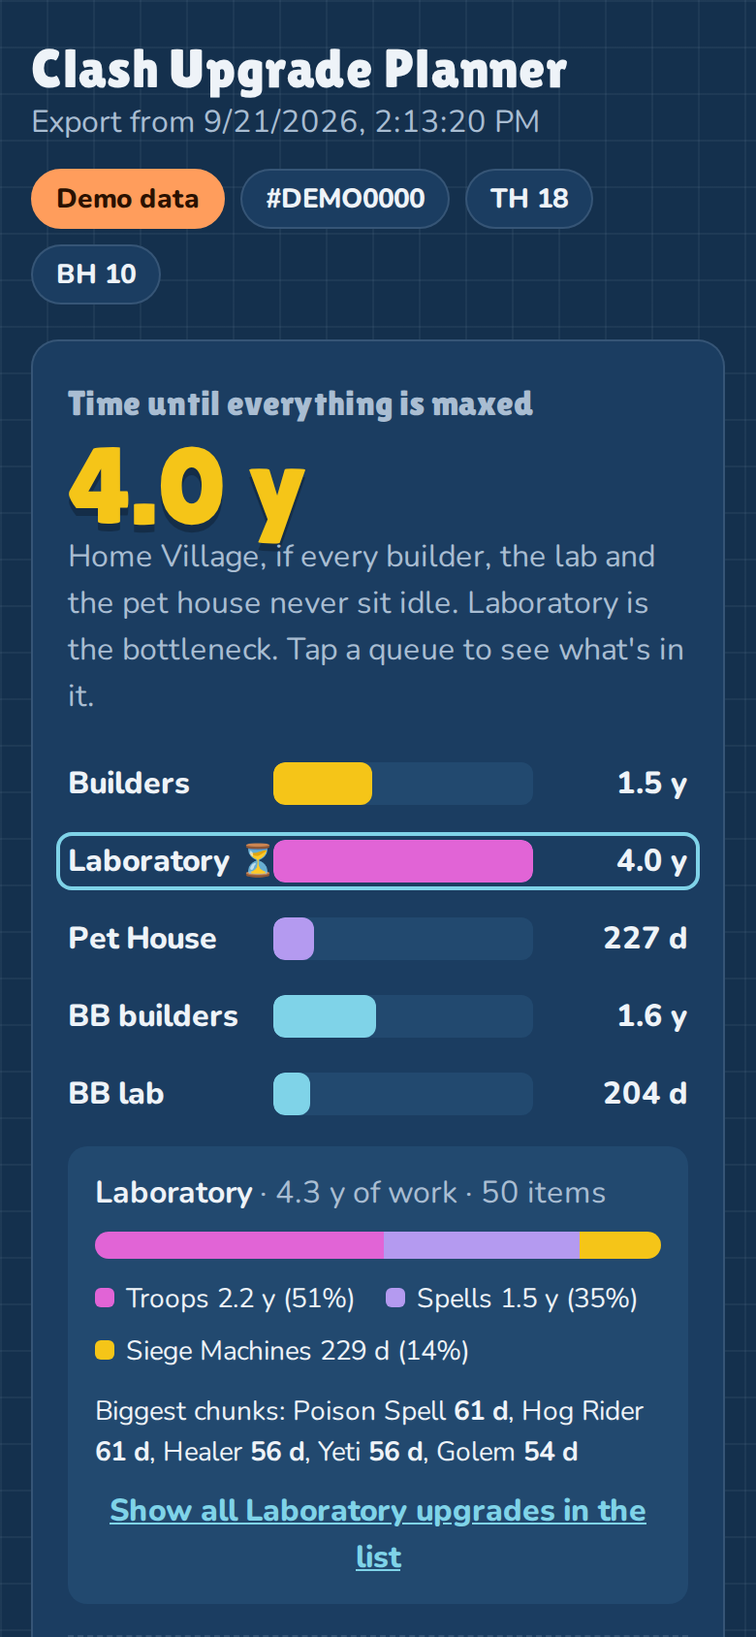
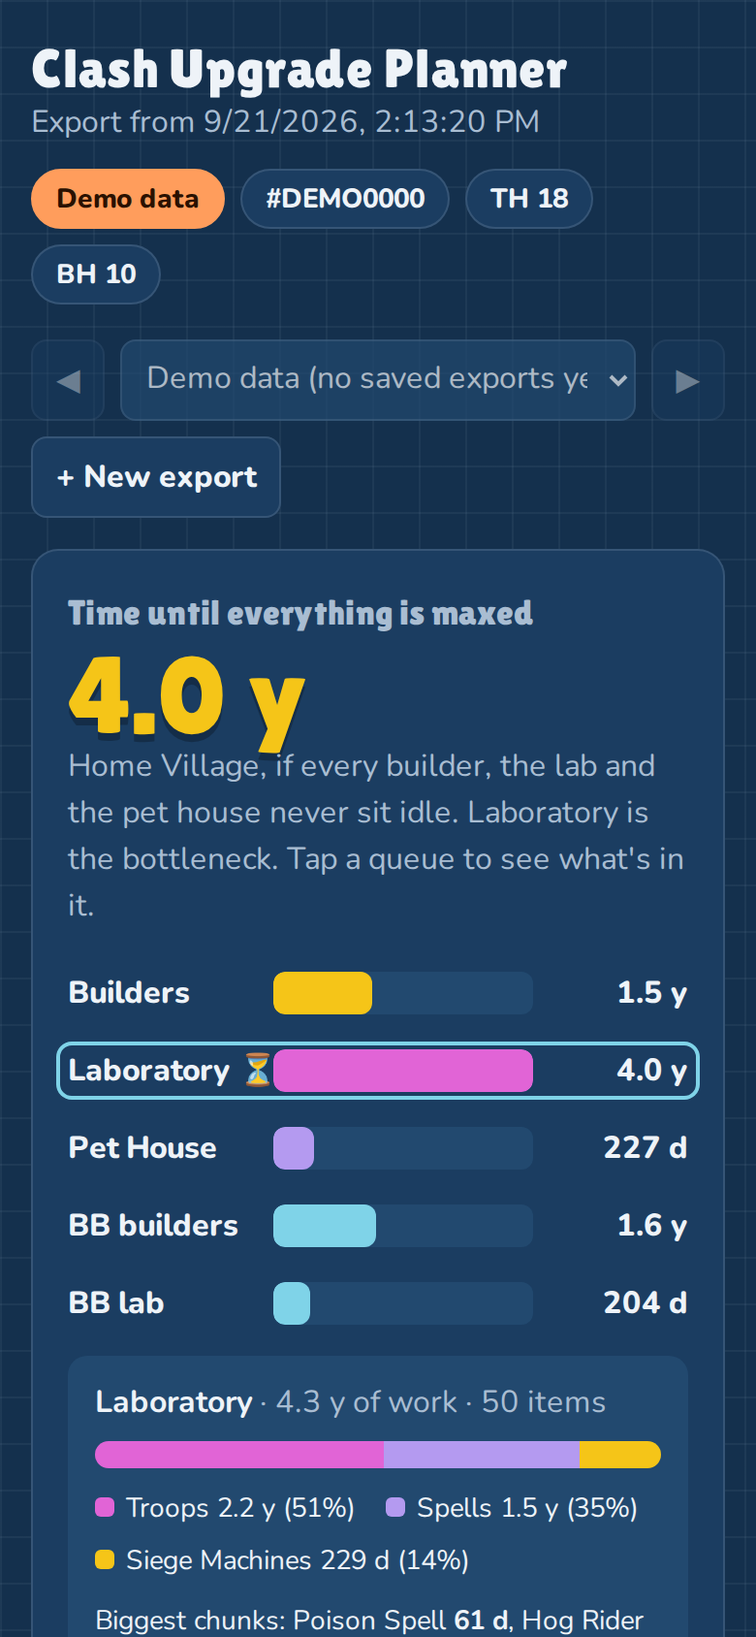
saved exports by date

Changed region(s): [[0.0615, 0.2156, 0.9231, 1.0], [0.8923, 0.2156, 0.9231, 0.2464]]

diff --git a/index.html b/index.html
@@ -104,6 +104,14 @@ button.lane:focus-visible{outline:3px solid var(--ore)}
 .p2w-grid div{background:var(--panel2);border-radius:10px;padding:10px 12px}
 .p2w-grid b{display:block;font-family:"Lilita One",sans-serif;font-weight:400;font-size:22px}
 .p2w-grid small{color:var(--muted)}
+#histBar{display:flex;flex-wrap:wrap;gap:8px;align-items:center;margin-bottom:16px}
+#histBar select{flex:1;min-width:220px}
+.hbtn{background:var(--panel);color:var(--ink);border:1px solid var(--line);border-radius:8px;padding:8px 12px;font-weight:800}
+.hbtn:disabled{opacity:.4;cursor:default}
+.delta{margin-top:8px;font-weight:800;color:var(--ok)}
+.hist{display:grid;gap:6px;margin-top:10px}
+.hist div{display:flex;justify-content:space-between;align-items:center;gap:8px;background:var(--panel2);border-radius:8px;padding:6px 10px;font-size:14px}
+.hist button{background:none;border:0;color:var(--warn);font-weight:800}
 @media (max-width:640px){button.lane{grid-template-columns:96px 1fr 70px}}
 @media (max-width:640px){
   .lane{grid-template-columns:96px 1fr 70px}
@@ -115,16 +123,25 @@ button.lane:focus-visible{outline:3px solid var(--ore)}
 </style>
 </head>
 <body>
+<div id="tplWarn" style="background:#ff9d5c;color:#2a1100;padding:14px;font:700 16px system-ui;text-align:center">This is the build template and can't run on its own. Open <u>index.html</u> in the main folder instead.</div>
 <div class="wrap">
   <div class="top">
     <div><h1>Clash Upgrade Planner</h1><div class="muted" id="sub"></div></div>
     <div class="chips" id="chips"></div>
   </div>
 
+  <div id="histBar" aria-label="Saved exports">
+    <button class="hbtn" id="hPrev" aria-label="Older export">◀</button>
+    <select id="hSel" aria-label="Choose a saved export"></select>
+    <button class="hbtn" id="hNext" aria-label="Newer export">▶</button>
+    <button class="hbtn" id="hNew">+ New export</button>
+  </div>
+
   <section class="panel" aria-labelledby="h-total">
     <h2 id="h-total" class="muted" style="font-size:18px;margin-bottom:4px">Time until everything is maxed</h2>
     <div class="hero-num" id="heroNum">–</div>
     <div class="hero-sub" id="heroSub"></div>
+    <div class="delta" id="delta"></div>
     <div class="lanes" id="lanes" aria-label="Tap a queue to see what is in it"></div>
     <div class="bd" id="bd"></div>
     <div class="settings">
@@ -208,11 +225,16 @@ button.lane:focus-visible{outline:3px solid var(--ore)}
       <textarea id="paste" spellcheck="false" placeholder='{"tag":"#...","buildings":[...]}'></textarea>
       <button class="btn" id="load">Analyze export</button>
       <div class="err" id="err" role="alert"></div>
+      <h3 style="margin-top:18px">Saved exports</h3>
+      <p class="note" style="margin-top:0">Every export you analyze is saved here by date, so you can jump back and compare progress. Stored in this browser only.</p>
+      <div class="hist" id="histList"></div>
+      <button class="hbtn" id="backup" style="margin-top:10px">Download backup</button>
+      <p class="note">To restore a backup, paste its content into the box above and tap Analyze.</p>
     </details>
     <p class="note" id="foot"></p>
   </section>
   <footer class="note" style="text-align:center;margin-top:24px">
-    Clash Upgrade Planner v1.2.0 · © 2026 <a href="https://github.com/saxcodez" style="color:inherit">saxcodez</a> · PolyForm Noncommercial 1.0.0<br>
+    Clash Upgrade Planner v1.3.0 · © 2026 <a href="https://github.com/saxcodez" style="color:inherit">saxcodez</a> · PolyForm Noncommercial 1.0.0<br>
     This material is unofficial and is not endorsed by Supercell. For more information see Supercell's Fan Content Policy: <a href="https://www.supercell.com/fan-content-policy" style="color:inherit">www.supercell.com/fan-content-policy</a>.
   </footer>
 </div>
@@ -334,7 +356,36 @@ const ITEMS = [
   ['hammerBuilding', 'Hammer of Building'], ['hammerHeroes', 'Hammer of Heroes'], ['hammerFighting', 'Hammer of Fighting'], ['hammerSpells', 'Hammer of Spells'],
 ];
 let inv = {};
-try { const s = localStorage.getItem('coc-planner-acc'); if (s) acc = JSON.parse(s); } catch (e) {}
+// ---- saved exports (history)
+const HKEY = 'coc-planner-history';
+let hist = [], curId = null;
+const snapId = a => (a.tag || '?') + '@' + (a.timestamp || 0);
+function loadHist() { try { hist = JSON.parse(localStorage.getItem(HKEY) || '[]'); } catch (e) { hist = []; } }
+function saveHist() { try { localStorage.setItem(HKEY, JSON.stringify(hist)); localStorage.setItem('coc-planner-current', curId || ''); return true; } catch (e) { $('err').textContent = 'Browser storage is full. Delete some older exports.'; return false; } }
+function addSnap(a) {
+  const id = snapId(a);
+  if (!hist.find(h => h.id === id)) {
+    const th = (a.buildings || []).find(b => b.data === 1000001);
+    hist.push({ id, tag: a.tag || '', ts: a.timestamp || Math.floor(Date.now() / 1000), saved: Date.now(), th: th ? th.lvl : null, data: a });
+    hist.sort((x, y) => x.ts - y.ts);
+  }
+  curId = id; saveHist();
+}
+const fmtDate = s => new Date(s * 1000).toLocaleString(undefined, { day: '2-digit', month: '2-digit', year: 'numeric', hour: '2-digit', minute: '2-digit' });
+function renderHist() {
+  const sel = $('hSel');
+  if (!hist.length) { sel.innerHTML = '<option>Demo data (no saved exports yet)</option>'; sel.disabled = true; $('hPrev').disabled = $('hNext').disabled = true; $('histList').innerHTML = '<p class="muted">Nothing saved yet.</p>'; return; }
+  sel.disabled = false;
+  sel.innerHTML = hist.slice().reverse().map(h => `<option value="${esc(h.id)}"${h.id === curId ? ' selected' : ''}>${fmtDate(h.ts)} · ${esc(h.tag)}${h.th ? ' · TH' + h.th : ''}</option>`).join('');
+  const i = hist.findIndex(h => h.id === curId);
+  $('hPrev').disabled = i <= 0; $('hNext').disabled = i < 0 || i >= hist.length - 1;
+  $('histList').innerHTML = hist.slice().reverse().map(h => `<div><span>${fmtDate(h.ts)} · ${esc(h.tag)}${h.th ? ' · TH' + h.th : ''}${h.id === curId ? ' <b>(shown)</b>' : ''}</span><button data-del="${esc(h.id)}" aria-label="Delete export from ${fmtDate(h.ts)}">Delete</button></div>`).join('');
+}
+function showSnap(id) { const h = hist.find(x => x.id === id); if (!h) return; curId = id; acc = h.data; saveHist(); run(); }
+loadHist();
+try { const old = localStorage.getItem('coc-planner-acc'); if (old) { addSnap(JSON.parse(old)); localStorage.removeItem('coc-planner-acc'); } } catch (e) {}
+if (DEFAULT_ACC.tag !== '#DEMO0000') addSnap(DEFAULT_ACC);
+{ const c = localStorage.getItem('coc-planner-current'); const h = hist.find(x => x.id === c) || hist[hist.length - 1]; if (h) { curId = h.id; acc = h.data; } }
 try { inv = JSON.parse(localStorage.getItem('coc-planner-items') || '{}'); } catch (e) {}
 const QN = { builder: 'Builders', lab: 'Laboratory', pet: 'Pet House', bbBuilder: 'BB builders', bbLab: 'BB lab', smith: 'Blacksmith' };
 const CATCOL = { Buildings: 'var(--gold)', Traps: 'var(--warn)', Heroes: 'var(--elixir)', Guardians: 'var(--ok)', 'Crafted Defense': 'var(--ore)', Troops: 'var(--elixir)', Spells: 'var(--dark)', 'Siege Machines': 'var(--gold)', Pets: 'var(--dark)' };
@@ -410,6 +461,8 @@ function render() {
   $('heroSub').textContent = `Home Village, if every builder, the lab and the pet house never sit idle. ${QN[crit]} is the bottleneck. Tap a queue to see what's in it.`;
   $('lanes').innerHTML = lanes.map(([k, c]) => `<button class="lane${k === crit ? ' crit' : ''}" aria-pressed="${k === laneSel}" data-lane="${k}"><span class="lbl">${QN[k]}</span><div class="bar"><div class="fill" style="width:${(T[k] / longest * 100).toFixed(1)}%;background:${c}"></div></div><span class="val">${fmtD(T[k])}</span></button>`).join('');
   renderBreakdown(T);
+  renderDelta(homeMax);
+  renderHist();
 
   const r = R.res, o = R.ore;
   const cards = [['Gold', r.Gold, 'gold'], ['Elixir', r.Elixir, 'elixir'], ['Dark Elixir', r['Dark Elixir'], 'dark'], ['Walls (gold or elixir)', r['Wall Gold/Elixir'], 'gold'],
@@ -420,6 +473,19 @@ function render() {
   $('sub').textContent = R.timestamp ? 'Export from ' + new Date(R.timestamp * 1000).toLocaleString() : '';
   renderRecs(T); renderItems(T); renderP2W(); renderList(); renderStats();
   $('foot').textContent = `Game data: ${G.dataDate}. Max levels are capped at your Town Hall.` + (R.unknown.length ? ` ${R.unknown.length} item(s) not in the data yet (IDs ${R.unknown.map(u => u.id).join(', ')}).` : '');
+}
+function homeTimeFor(a) {
+  const keep = R; R = analyze(a, G, { supercharges: $('optSC').checked, missing: $('optMiss').checked });
+  const T = times(), steps = R.rows.filter(r => r.village === 'Home').reduce((s, r) => s + r.steps, 0); R = keep;
+  return { max: Math.max(T.builder, T.lab, T.pet), steps };
+}
+function renderDelta(homeMax) {
+  const i = hist.findIndex(h => h.id === curId);
+  const prev = i > 0 ? hist.slice(0, i).reverse().find(h => h.tag === hist[i].tag) : null;
+  if (!prev) { $('delta').textContent = ''; return; }
+  const p = homeTimeFor(prev.data), nowSteps = R.rows.filter(r => r.village === 'Home').reduce((s, r) => s + r.steps, 0);
+  const lv = p.steps - nowSteps, dt = p.max - homeMax;
+  $('delta').textContent = `Since ${fmtDate(prev.ts)}: ${lv >= 0 ? lv : 0} levels done · ${dt >= 0 ? fmtD(dt) + ' closer to max' : fmtD(-dt) + ' more (new content added?)'}`;
 }
 function renderBreakdown(T) {
   const k = laneSel, rows = R.rows.filter(r => r.queue === k);
@@ -581,12 +647,34 @@ document.addEventListener('change', e => { const k = e.target.dataset && e.targe
 $('load').addEventListener('click', () => {
   $('err').textContent = '';
   try {
-    const a = JSON.parse($('paste').value);
+    const a = JSON.parse($('paste').value.trim());
+    if (a.cocPlannerBackup && Array.isArray(a.history)) {
+      a.history.forEach(h => { if (!hist.find(x => x.id === h.id)) hist.push(h); });
+      hist.sort((x, y) => x.ts - y.ts); const last = hist[hist.length - 1]; curId = last.id; acc = last.data; saveHist();
+      $('paste').value = ''; run(); return;
+    }
     if (!a.buildings) throw new Error('This JSON has no "buildings" list. Copy the full data export from the game.');
-    acc = a; try { localStorage.setItem('coc-planner-acc', JSON.stringify(a)); } catch (e) {}
+    acc = a; addSnap(a); $('paste').value = '';
     run(); window.scrollTo({ top: 0, behavior: 'smooth' });
   } catch (e) { $('err').textContent = 'Could not read that export: ' + e.message; }
 });
+$('hSel').addEventListener('change', e => showSnap(e.target.value));
+$('hPrev').addEventListener('click', () => { const i = hist.findIndex(h => h.id === curId); if (i > 0) showSnap(hist[i - 1].id); });
+$('hNext').addEventListener('click', () => { const i = hist.findIndex(h => h.id === curId); if (i < hist.length - 1) showSnap(hist[i + 1].id); });
+$('hNew').addEventListener('click', () => { const d = document.querySelector('details'); d.open = true; d.scrollIntoView({ behavior: 'smooth' }); setTimeout(() => $('paste').focus(), 400); });
+document.addEventListener('click', e => {
+  const d = e.target.closest('[data-del]'); if (!d) return;
+  const h = hist.find(x => x.id === d.dataset.del);
+  if (!h || !confirm('Delete the export from ' + fmtDate(h.ts) + '?')) return;
+  hist = hist.filter(x => x.id !== h.id);
+  if (curId === h.id) { const last = hist[hist.length - 1]; curId = last ? last.id : null; acc = last ? last.data : DEFAULT_ACC; }
+  saveHist(); run();
+});
+$('backup').addEventListener('click', () => {
+  const blob = new Blob([JSON.stringify({ cocPlannerBackup: 1, history: hist })], { type: 'application/json' });
+  const a = document.createElement('a'); a.href = URL.createObjectURL(blob); a.download = 'clash-planner-backup-' + new Date().toISOString().slice(0, 10) + '.json'; a.click();
+});
+document.getElementById('tplWarn').remove();
 run();
 if (acc.tag === '#DEMO0000') document.querySelector('details').open = true;
 </script>

diff --git a/src/template.html b/src/template.html
@@ -104,6 +104,14 @@ button.lane:focus-visible{outline:3px solid var(--ore)}
 .p2w-grid div{background:var(--panel2);border-radius:10px;padding:10px 12px}
 .p2w-grid b{display:block;font-family:"Lilita One",sans-serif;font-weight:400;font-size:22px}
 .p2w-grid small{color:var(--muted)}
+#histBar{display:flex;flex-wrap:wrap;gap:8px;align-items:center;margin-bottom:16px}
+#histBar select{flex:1;min-width:220px}
+.hbtn{background:var(--panel);color:var(--ink);border:1px solid var(--line);border-radius:8px;padding:8px 12px;font-weight:800}
+.hbtn:disabled{opacity:.4;cursor:default}
+.delta{margin-top:8px;font-weight:800;color:var(--ok)}
+.hist{display:grid;gap:6px;margin-top:10px}
+.hist div{display:flex;justify-content:space-between;align-items:center;gap:8px;background:var(--panel2);border-radius:8px;padding:6px 10px;font-size:14px}
+.hist button{background:none;border:0;color:var(--warn);font-weight:800}
 @media (max-width:640px){button.lane{grid-template-columns:96px 1fr 70px}}
 @media (max-width:640px){
   .lane{grid-template-columns:96px 1fr 70px}
@@ -115,16 +123,25 @@ button.lane:focus-visible{outline:3px solid var(--ore)}
 </style>
 </head>
 <body>
+<div id="tplWarn" style="background:#ff9d5c;color:#2a1100;padding:14px;font:700 16px system-ui;text-align:center">This is the build template and can't run on its own. Open <u>index.html</u> in the main folder instead.</div>
 <div class="wrap">
   <div class="top">
     <div><h1>Clash Upgrade Planner</h1><div class="muted" id="sub"></div></div>
     <div class="chips" id="chips"></div>
   </div>
 
+  <div id="histBar" aria-label="Saved exports">
+    <button class="hbtn" id="hPrev" aria-label="Older export">◀</button>
+    <select id="hSel" aria-label="Choose a saved export"></select>
+    <button class="hbtn" id="hNext" aria-label="Newer export">▶</button>
+    <button class="hbtn" id="hNew">+ New export</button>
+  </div>
+
   <section class="panel" aria-labelledby="h-total">
     <h2 id="h-total" class="muted" style="font-size:18px;margin-bottom:4px">Time until everything is maxed</h2>
     <div class="hero-num" id="heroNum">–</div>
     <div class="hero-sub" id="heroSub"></div>
+    <div class="delta" id="delta"></div>
     <div class="lanes" id="lanes" aria-label="Tap a queue to see what is in it"></div>
     <div class="bd" id="bd"></div>
     <div class="settings">
@@ -208,6 +225,11 @@ button.lane:focus-visible{outline:3px solid var(--ore)}
       <textarea id="paste" spellcheck="false" placeholder='{"tag":"#...","buildings":[...]}'></textarea>
       <button class="btn" id="load">Analyze export</button>
       <div class="err" id="err" role="alert"></div>
+      <h3 style="margin-top:18px">Saved exports</h3>
+      <p class="note" style="margin-top:0">Every export you analyze is saved here by date, so you can jump back and compare progress. Stored in this browser only.</p>
+      <div class="hist" id="histList"></div>
+      <button class="hbtn" id="backup" style="margin-top:10px">Download backup</button>
+      <p class="note">To restore a backup, paste its content into the box above and tap Analyze.</p>
     </details>
     <p class="note" id="foot"></p>
   </section>
@@ -233,7 +255,36 @@ const ITEMS = [
   ['hammerBuilding', 'Hammer of Building'], ['hammerHeroes', 'Hammer of Heroes'], ['hammerFighting', 'Hammer of Fighting'], ['hammerSpells', 'Hammer of Spells'],
 ];
 let inv = {};
-try { const s = localStorage.getItem('coc-planner-acc'); if (s) acc = JSON.parse(s); } catch (e) {}
+// ---- saved exports (history)
+const HKEY = 'coc-planner-history';
+let hist = [], curId = null;
+const snapId = a => (a.tag || '?') + '@' + (a.timestamp || 0);
+function loadHist() { try { hist = JSON.parse(localStorage.getItem(HKEY) || '[]'); } catch (e) { hist = []; } }
+function saveHist() { try { localStorage.setItem(HKEY, JSON.stringify(hist)); localStorage.setItem('coc-planner-current', curId || ''); return true; } catch (e) { $('err').textContent = 'Browser storage is full. Delete some older exports.'; return false; } }
+function addSnap(a) {
+  const id = snapId(a);
+  if (!hist.find(h => h.id === id)) {
+    const th = (a.buildings || []).find(b => b.data === 1000001);
+    hist.push({ id, tag: a.tag || '', ts: a.timestamp || Math.floor(Date.now() / 1000), saved: Date.now(), th: th ? th.lvl : null, data: a });
+    hist.sort((x, y) => x.ts - y.ts);
+  }
+  curId = id; saveHist();
+}
+const fmtDate = s => new Date(s * 1000).toLocaleString(undefined, { day: '2-digit', month: '2-digit', year: 'numeric', hour: '2-digit', minute: '2-digit' });
+function renderHist() {
+  const sel = $('hSel');
+  if (!hist.length) { sel.innerHTML = '<option>Demo data (no saved exports yet)</option>'; sel.disabled = true; $('hPrev').disabled = $('hNext').disabled = true; $('histList').innerHTML = '<p class="muted">Nothing saved yet.</p>'; return; }
+  sel.disabled = false;
+  sel.innerHTML = hist.slice().reverse().map(h => `<option value="${esc(h.id)}"${h.id === curId ? ' selected' : ''}>${fmtDate(h.ts)} · ${esc(h.tag)}${h.th ? ' · TH' + h.th : ''}</option>`).join('');
+  const i = hist.findIndex(h => h.id === curId);
+  $('hPrev').disabled = i <= 0; $('hNext').disabled = i < 0 || i >= hist.length - 1;
+  $('histList').innerHTML = hist.slice().reverse().map(h => `<div><span>${fmtDate(h.ts)} · ${esc(h.tag)}${h.th ? ' · TH' + h.th : ''}${h.id === curId ? ' <b>(shown)</b>' : ''}</span><button data-del="${esc(h.id)}" aria-label="Delete export from ${fmtDate(h.ts)}">Delete</button></div>`).join('');
+}
+function showSnap(id) { const h = hist.find(x => x.id === id); if (!h) return; curId = id; acc = h.data; saveHist(); run(); }
+loadHist();
+try { const old = localStorage.getItem('coc-planner-acc'); if (old) { addSnap(JSON.parse(old)); localStorage.removeItem('coc-planner-acc'); } } catch (e) {}
+if (DEFAULT_ACC.tag !== '#DEMO0000') addSnap(DEFAULT_ACC);
+{ const c = localStorage.getItem('coc-planner-current'); const h = hist.find(x => x.id === c) || hist[hist.length - 1]; if (h) { curId = h.id; acc = h.data; } }
 try { inv = JSON.parse(localStorage.getItem('coc-planner-items') || '{}'); } catch (e) {}
 const QN = { builder: 'Builders', lab: 'Laboratory', pet: 'Pet House', bbBuilder: 'BB builders', bbLab: 'BB lab', smith: 'Blacksmith' };
 const CATCOL = { Buildings: 'var(--gold)', Traps: 'var(--warn)', Heroes: 'var(--elixir)', Guardians: 'var(--ok)', 'Crafted Defense': 'var(--ore)', Troops: 'var(--elixir)', Spells: 'var(--dark)', 'Siege Machines': 'var(--gold)', Pets: 'var(--dark)' };
@@ -309,6 +360,8 @@ function render() {
   $('heroSub').textContent = `Home Village, if every builder, the lab and the pet house never sit idle. ${QN[crit]} is the bottleneck. Tap a queue to see what's in it.`;
   $('lanes').innerHTML = lanes.map(([k, c]) => `<button class="lane${k === crit ? ' crit' : ''}" aria-pressed="${k === laneSel}" data-lane="${k}"><span class="lbl">${QN[k]}</span><div class="bar"><div class="fill" style="width:${(T[k] / longest * 100).toFixed(1)}%;background:${c}"></div></div><span class="val">${fmtD(T[k])}</span></button>`).join('');
   renderBreakdown(T);
+  renderDelta(homeMax);
+  renderHist();
 
   const r = R.res, o = R.ore;
   const cards = [['Gold', r.Gold, 'gold'], ['Elixir', r.Elixir, 'elixir'], ['Dark Elixir', r['Dark Elixir'], 'dark'], ['Walls (gold or elixir)', r['Wall Gold/Elixir'], 'gold'],
@@ -319,6 +372,19 @@ function render() {
   $('sub').textContent = R.timestamp ? 'Export from ' + new Date(R.timestamp * 1000).toLocaleString() : '';
   renderRecs(T); renderItems(T); renderP2W(); renderList(); renderStats();
   $('foot').textContent = `Game data: ${G.dataDate}. Max levels are capped at your Town Hall.` + (R.unknown.length ? ` ${R.unknown.length} item(s) not in the data yet (IDs ${R.unknown.map(u => u.id).join(', ')}).` : '');
+}
+function homeTimeFor(a) {
+  const keep = R; R = analyze(a, G, { supercharges: $('optSC').checked, missing: $('optMiss').checked });
+  const T = times(), steps = R.rows.filter(r => r.village === 'Home').reduce((s, r) => s + r.steps, 0); R = keep;
+  return { max: Math.max(T.builder, T.lab, T.pet), steps };
+}
+function renderDelta(homeMax) {
+  const i = hist.findIndex(h => h.id === curId);
+  const prev = i > 0 ? hist.slice(0, i).reverse().find(h => h.tag === hist[i].tag) : null;
+  if (!prev) { $('delta').textContent = ''; return; }
+  const p = homeTimeFor(prev.data), nowSteps = R.rows.filter(r => r.village === 'Home').reduce((s, r) => s + r.steps, 0);
+  const lv = p.steps - nowSteps, dt = p.max - homeMax;
+  $('delta').textContent = `Since ${fmtDate(prev.ts)}: ${lv >= 0 ? lv : 0} levels done · ${dt >= 0 ? fmtD(dt) + ' closer to max' : fmtD(-dt) + ' more (new content added?)'}`;
 }
 function renderBreakdown(T) {
   const k = laneSel, rows = R.rows.filter(r => r.queue === k);
@@ -480,12 +546,34 @@ document.addEventListener('change', e => { const k = e.target.dataset && e.targe
 $('load').addEventListener('click', () => {
   $('err').textContent = '';
   try {
-    const a = JSON.parse($('paste').value);
+    const a = JSON.parse($('paste').value.trim());
+    if (a.cocPlannerBackup && Array.isArray(a.history)) {
+      a.history.forEach(h => { if (!hist.find(x => x.id === h.id)) hist.push(h); });
+      hist.sort((x, y) => x.ts - y.ts); const last = hist[hist.length - 1]; curId = last.id; acc = last.data; saveHist();
+      $('paste').value = ''; run(); return;
+    }
     if (!a.buildings) throw new Error('This JSON has no "buildings" list. Copy the full data export from the game.');
-    acc = a; try { localStorage.setItem('coc-planner-acc', JSON.stringify(a)); } catch (e) {}
+    acc = a; addSnap(a); $('paste').value = '';
     run(); window.scrollTo({ top: 0, behavior: 'smooth' });
   } catch (e) { $('err').textContent = 'Could not read that export: ' + e.message; }
 });
+$('hSel').addEventListener('change', e => showSnap(e.target.value));
+$('hPrev').addEventListener('click', () => { const i = hist.findIndex(h => h.id === curId); if (i > 0) showSnap(hist[i - 1].id); });
+$('hNext').addEventListener('click', () => { const i = hist.findIndex(h => h.id === curId); if (i < hist.length - 1) showSnap(hist[i + 1].id); });
+$('hNew').addEventListener('click', () => { const d = document.querySelector('details'); d.open = true; d.scrollIntoView({ behavior: 'smooth' }); setTimeout(() => $('paste').focus(), 400); });
+document.addEventListener('click', e => {
+  const d = e.target.closest('[data-del]'); if (!d) return;
+  const h = hist.find(x => x.id === d.dataset.del);
+  if (!h || !confirm('Delete the export from ' + fmtDate(h.ts) + '?')) return;
+  hist = hist.filter(x => x.id !== h.id);
+  if (curId === h.id) { const last = hist[hist.length - 1]; curId = last ? last.id : null; acc = last ? last.data : DEFAULT_ACC; }
+  saveHist(); run();
+});
+$('backup').addEventListener('click', () => {
+  const blob = new Blob([JSON.stringify({ cocPlannerBackup: 1, history: hist })], { type: 'application/json' });
+  const a = document.createElement('a'); a.href = URL.createObjectURL(blob); a.download = 'clash-planner-backup-' + new Date().toISOString().slice(0, 10) + '.json'; a.click();
+});
+document.getElementById('tplWarn').remove();
 run();
 if (acc.tag === '#DEMO0000') document.querySelector('details').open = true;
 </script>

diff --git a/src/build.py b/src/build.py
@@ -6,7 +6,7 @@ Usage:
 """
 import json, sys, pathlib
 
-VERSION = "1.2.0"
+VERSION = "1.3.0"
 here = pathlib.Path(__file__).parent
 acc = pathlib.Path(sys.argv[1]) if len(sys.argv) > 1 else here / "demo-account.json"
 analyze = (here / "analyze.js").read_text(encoding="utf-8").replace(

diff --git a/README.md b/README.md
@@ -6,7 +6,7 @@
 
 Copy your data export from the game, paste it in, done. No login, no API key, no connection to the game.
 
-![Version](https://img.shields.io/badge/version-1.2.0-f5c518)
+![Version](https://img.shields.io/badge/version-1.3.0-f5c518)
 ![Game data](https://img.shields.io/badge/game%20data-TH18%20%C2%B7%20BH10%20%C2%B7%20Sep%202026-7fd3e8)
 ![iOS](https://img.shields.io/badge/iOS-tested-7ddc7d)
 ![Android](https://img.shields.io/badge/Android-needs%20testing-ff9d5c)
@@ -34,6 +34,7 @@ The game tells you what you *can* upgrade next. It doesn't tell you how far you 
 - 🧪 **Magic items**: enter your potions, books and hammers; the planner puts each book/hammer on the upgrade where it saves the most time
 - 🧑🔧 **Helpers**: Builder's Apprentice and Lab Assistant levels from your export are included automatically
 - 📊 **Stats**: completion per category, heroes, equipment per hero, what's upgrading right now, fun facts
+- 🗂 **Saved exports**: every export is saved by date. Jump back to older ones and see your progress since the last export (levels done, days closer to max). Backup and restore included
 - 📋 **Full upgrade list**: filter by category, queue and village; search and sort
 - 📱 Works on phone and desktop, light and dark mode
 
@@ -47,11 +48,13 @@ The game tells you what you *can* upgrade next. It doesn't tell you how far you 
 
 ## How to use
 
-1. **Open the planner**: open `index.html` in your browser (or use the GitHub Pages link of this repo, if enabled).
+1. **Open the planner**: double-click `index.html` in the main folder (or use the GitHub Pages link of this repo, if enabled). Don't open `src/template.html`, that's only the build template.
 2. **Copy your data in Clash of Clans**: Settings → More Settings → scroll down to **Data Export** → tap **Copy**.
 3. **Paste it**: at the bottom of the planner, open **Load your own export**, paste the text and tap **Analyze export**.
 
-That's it. Your export is remembered in your browser for next time. To switch accounts, just paste another export.
+That's it. Each export is saved by date in your browser. Use the ◀ ▶ arrows or the dropdown at the top to jump between them, and **+ New export** to add the next one. Multiple accounts work too.
+
+> Saved exports live in your browser's storage. Use **Download backup** now and then, and paste the backup file's content into the box to restore it (for example on another device).
 
 > The export contains no password or login data. Still, there's no reason to post it publicly.
 

diff --git a/CHANGELOG.md b/CHANGELOG.md
@@ -1,5 +1,10 @@
 # Changelog
 
+## 1.3.0
+- Saved exports: history by date with ◀ ▶ navigation, delete, backup and restore
+- Progress since the previous export of the same player
+- Clear warning when the build template is opened instead of index.html
+
 ## 1.2.0
 - Demo account as default, copyright and fan content disclaimer, GitHub release files.
 
